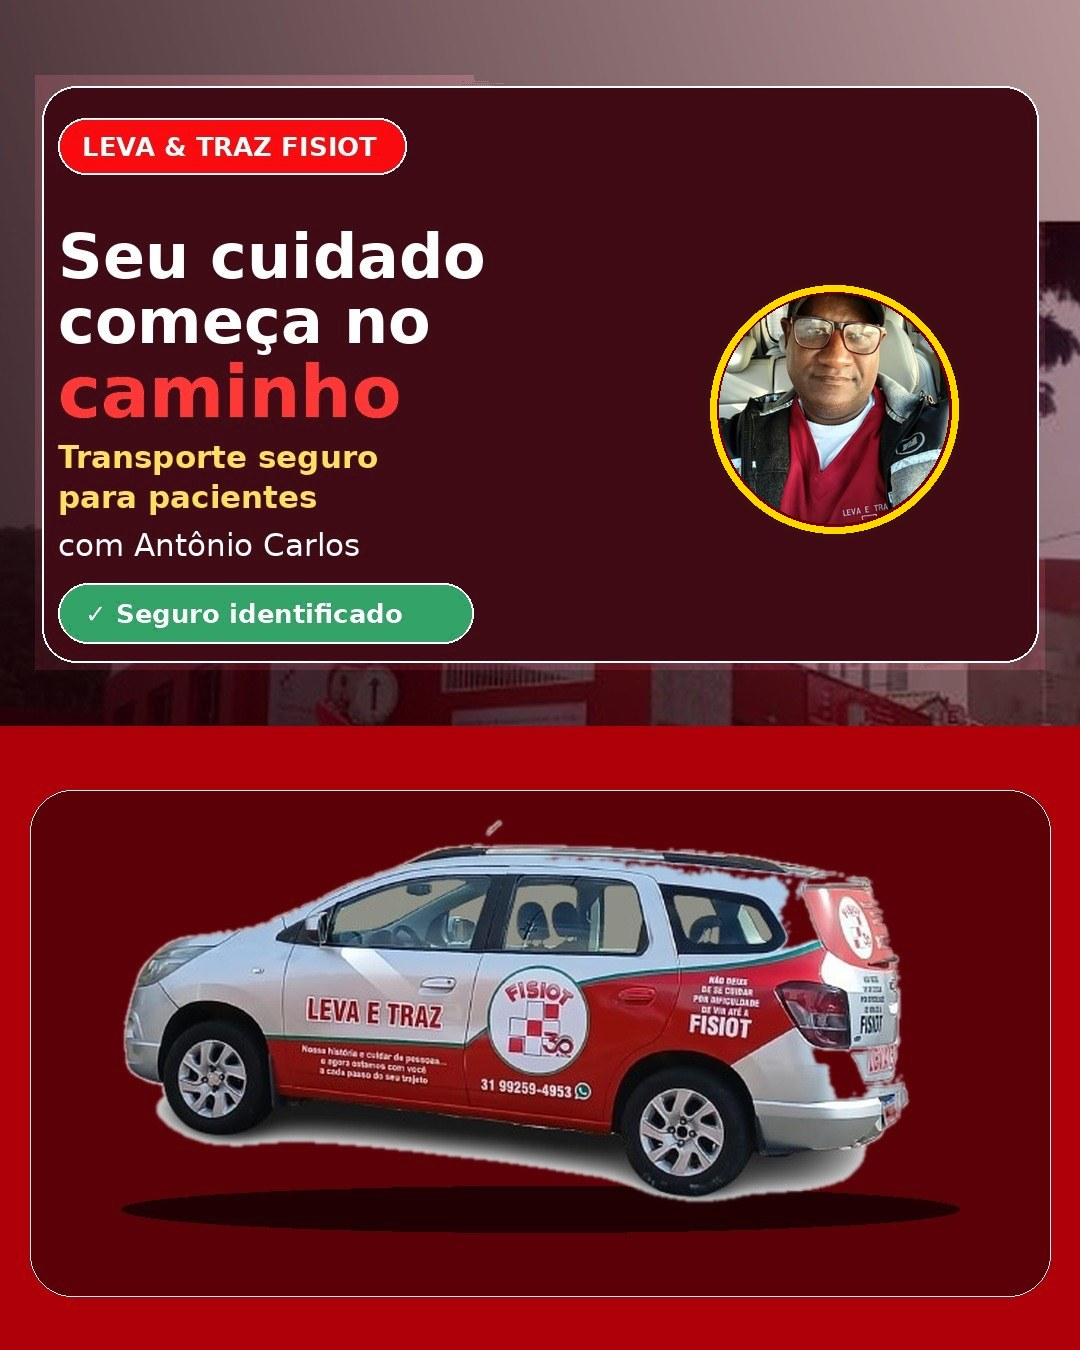
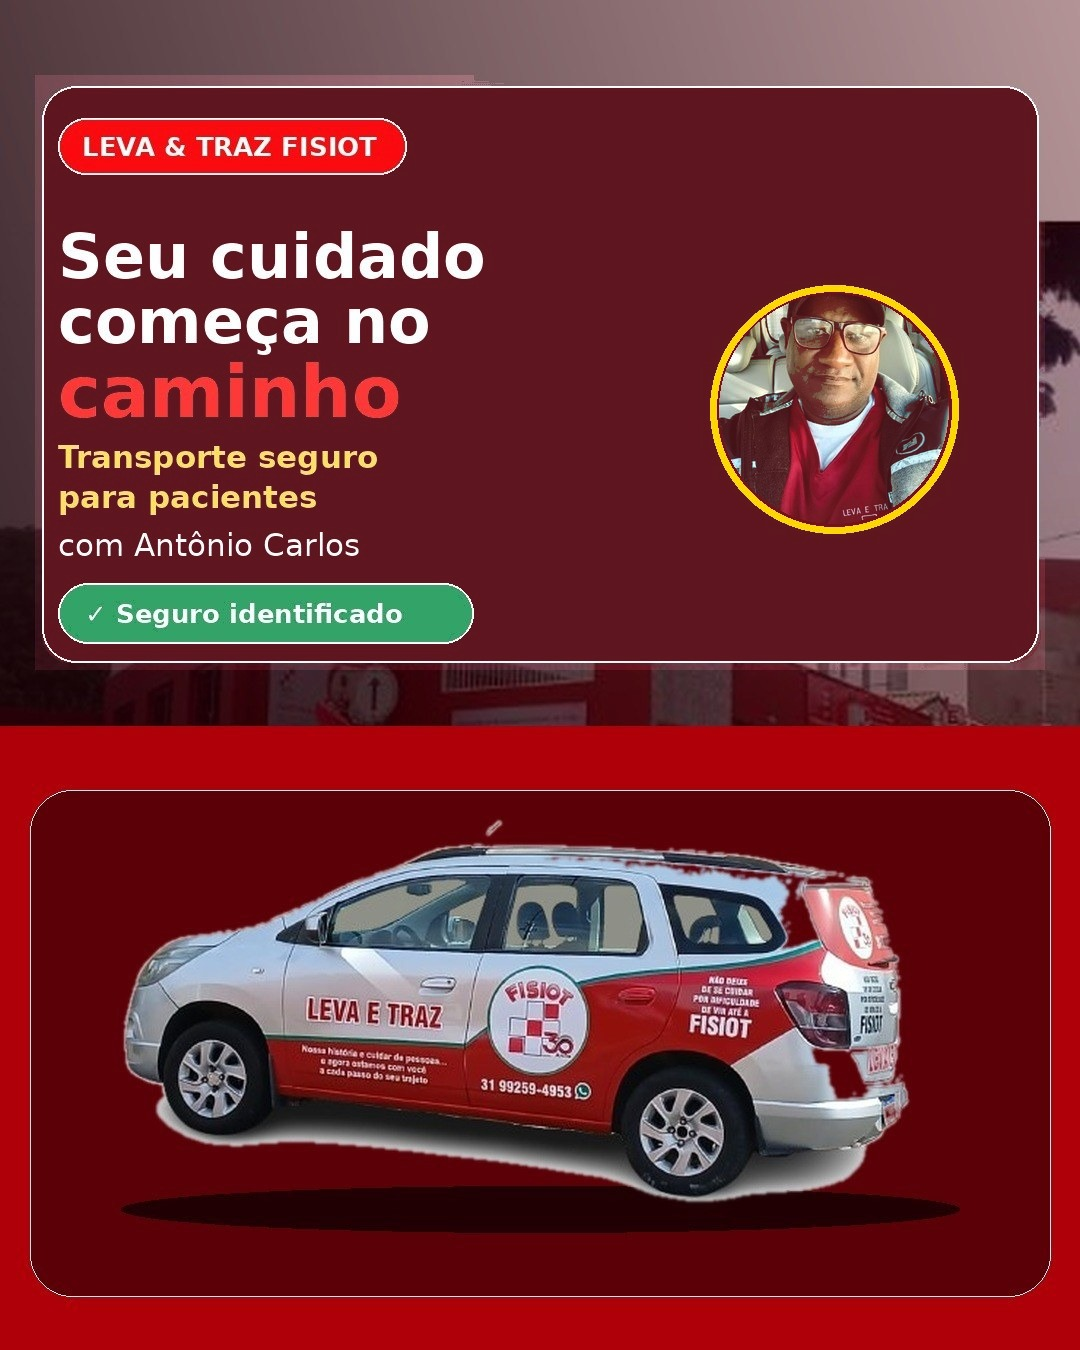
Clarear painel do hero Leva Traz

diff --git a/leva-traz/index.html b/leva-traz/index.html
@@ -122,8 +122,8 @@ body{font-family:'Inter',sans-serif;background:#0a0005;color:#fff;min-height:100
 <div class="hero">
   <div class="hero-cover">
     <picture>
-      <source id="hero-mobile-source" media="(max-width: 680px)" srcset="capa-fisiot-leva-traz-mobile.jpg?v=20260608x"/>
-      <img id="hero-cover-img" src="capa-fisiot-leva-traz-desktop.jpg?v=20260608x" alt="Capa Leva &amp; Traz FISIOT com fachada da clínica e Chevrolet Spin identificado"/>
+      <source id="hero-mobile-source" media="(max-width: 680px)" srcset="capa-fisiot-leva-traz-mobile.jpg?v=20260608y"/>
+      <img id="hero-cover-img" src="capa-fisiot-leva-traz-desktop.jpg?v=20260608y" alt="Capa Leva &amp; Traz FISIOT com fachada da clínica e Chevrolet Spin identificado"/>
     </picture>
   </div>
 </div>
@@ -157,7 +157,7 @@ body{font-family:'Inter',sans-serif;background:#0a0005;color:#fff;min-height:100
 
   <div class="schedule-card">
     <div class="driver">
-      <div class="driver-avatar"><img class="driver-photo" src="antonio-carlos-motorista.jpg?v=20260608x" alt="Motorista Antônio Carlos" loading="lazy"></div>
+      <div class="driver-avatar"><img class="driver-photo" src="antonio-carlos-motorista.jpg?v=20260608y" alt="Motorista Antônio Carlos" loading="lazy"></div>
       <div>
         <div class="driver-name">Antônio Carlos</div>
         <div class="driver-car">Chevrolet Spin • Lagoa Santa MG</div>
@@ -197,7 +197,7 @@ body{font-family:'Inter',sans-serif;background:#0a0005;color:#fff;min-height:100
   </div>
   <div class="schedule-card">
     <div class="driver">
-      <div class="driver-avatar"><img class="driver-photo" src="antonio-carlos-motorista.jpg?v=20260608x" alt="Motorista Antônio Carlos" loading="lazy"></div>
+      <div class="driver-avatar"><img class="driver-photo" src="antonio-carlos-motorista.jpg?v=20260608y" alt="Motorista Antônio Carlos" loading="lazy"></div>
       <div>
         <div class="driver-name">Antônio Carlos</div>
         <div class="driver-car">Chevrolet Spin • Lagoa Santa MG</div>
@@ -666,8 +666,8 @@ setTimeout(function(){checkFixedBookingNotices();},1200);
 
 var heroCoverIndex=0;
 var heroCovers=[
-  {desktop:'capa-fisiot-leva-traz-desktop.jpg?v=20260608x',mobile:'capa-fisiot-leva-traz-mobile.jpg?v=20260608x'},
-  {desktop:'capa-fisiot-leva-traz-2-desktop.jpg?v=20260608x',mobile:'capa-fisiot-leva-traz-2-mobile.jpg?v=20260608x'}
+  {desktop:'capa-fisiot-leva-traz-desktop.jpg?v=20260608y',mobile:'capa-fisiot-leva-traz-mobile.jpg?v=20260608y'},
+  {desktop:'capa-fisiot-leva-traz-2-desktop.jpg?v=20260608y',mobile:'capa-fisiot-leva-traz-2-mobile.jpg?v=20260608y'}
 ];
 function setHeroCover(index){
   var img=document.getElementById('hero-cover-img');
@@ -712,7 +712,7 @@ applyFixedReservations();
 <script>
 // Service Worker
 if('serviceWorker' in navigator){
-  navigator.serviceWorker.register('/sw.js?v=20260608x').then(function(reg){ if(reg.update) reg.update(); }).catch(function(){});
+  navigator.serviceWorker.register('/sw.js?v=20260608y').then(function(reg){ if(reg.update) reg.update(); }).catch(function(){});
 }
 
 // PWA Install Prompt

diff --git a/leva-traz/sw.js b/leva-traz/sw.js
@@ -1,4 +1,4 @@
-const CACHE_NAME = 'leva-traz-v20260608x';
+const CACHE_NAME = 'leva-traz-v20260608y';
 const urlsToCache = ['/manifest.json'];
 
 self.addEventListener('install', function(e) {
